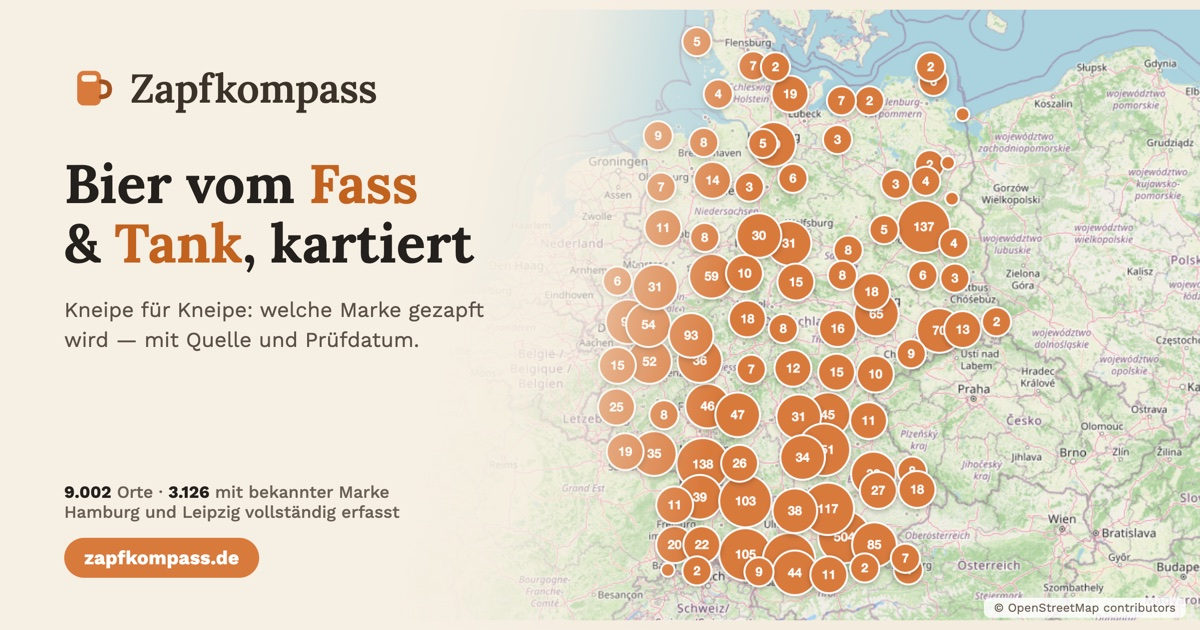
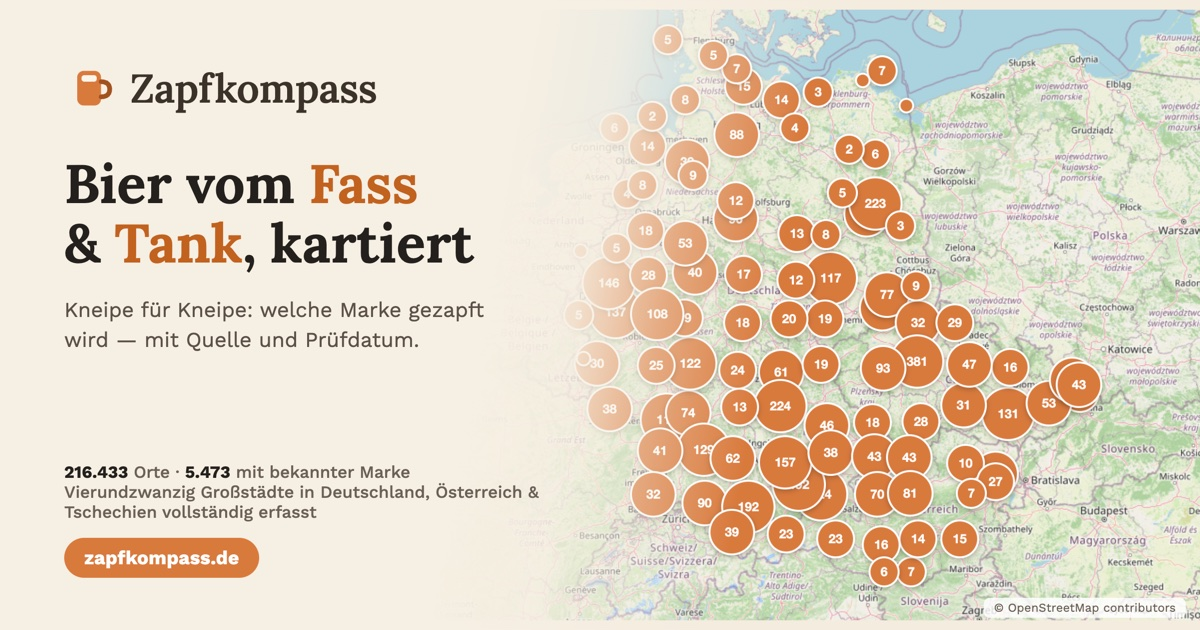
Regenerate the social preview card for the three-country map (#44)
Fresh plate with Austria in frame, card text now 'Vierundzwanzig
Großstädte in Deutschland, Österreich & Tschechien', numbers 216.433
Orte / 5.473 mit bekannter Marke. Plate nudged 40px right and the veil
widened so the western German bubbles stay clear of the type; the docs
now say where the two numbers come from (SQLite total, export count).

diff --git a/docs/og-card.html b/docs/og-card.html
@@ -14,15 +14,15 @@
     position: absolute; inset: 0;
     width: 100%; height: 100%;
     object-fit: cover;
-    transform: scale(0.97) translateX(200px);
+    transform: scale(0.97) translateX(240px);
     transform-origin: 50% 50%;
   }
   /* Cream wash over the left half so the type sits on a calm ground. */
   .veil {
     position: absolute; inset: 0;
     background: linear-gradient(100deg,
-      #f6efe3 0%, #f6efe3 38%, rgba(246, 239, 227, .88) 45%,
-      rgba(246, 239, 227, .4) 52%, rgba(246, 239, 227, 0) 60%);
+      #f6efe3 0%, #f6efe3 41%, rgba(246, 239, 227, .88) 48%,
+      rgba(246, 239, 227, .4) 55%, rgba(246, 239, 227, 0) 63%);
   }
   .panel {
     position: absolute;
@@ -86,7 +86,7 @@
       <h1>Bier vom <em>Fass</em><br />&amp; <em>Tank</em>, kartiert</h1>
       <p>Kneipe für Kneipe: welche Marke gezapft wird — mit Quelle und Prüfdatum.</p>
       <div class="stats">
-        <b>9.002</b> Orte · <b>3.126</b> mit bekannter Marke<br />
+        <b>216.433</b> Orte · <b>5.473</b> mit bekannter Marke<br />
         Vierundzwanzig Großstädte in Deutschland, Österreich &amp; Tschechien vollständig erfasst
       </div>
       <div class="url">zapfkompass.de</div>

diff --git a/docs/og-image.md b/docs/og-image.md
@@ -18,9 +18,11 @@ Refresh it when the look of the map changes or the numbers on it get stale.
    Wait for the tiles, screenshot at device pixel ratio 2 → a 2400×1260 plate.
 3. Drop the plate next to `docs/og-card.html` as `_og-plate.png`, serve that
    directory, and screenshot the card at 1200×630 (again at DPR 2). Adjust the
-   `.plate` transform if the country sits under the type, and update the numbers
-   in `.stats` — they come from the export:
-   `jq '[.features[]] | length, ([.features[] | select(.properties.brands | length > 0)] | length)' web/data/venues.json`
+   `.plate` transform if the countries sit under the type, and update the numbers
+   in `.stats` — total venues from the DB on the deploy host (the export is
+   branded-only, so the big number lives in SQLite), branded from the export:
+   `sqlite3 data/beer-map.sqlite "SELECT COUNT(*) FROM venues"`
+   `jq '.features | length' web/data/venues.json`
 4. Downscale and convert:
    `sips -s format jpeg -s formatOptions 84 -z 630 1200 card.png --out web/og-image.jpg`
 
